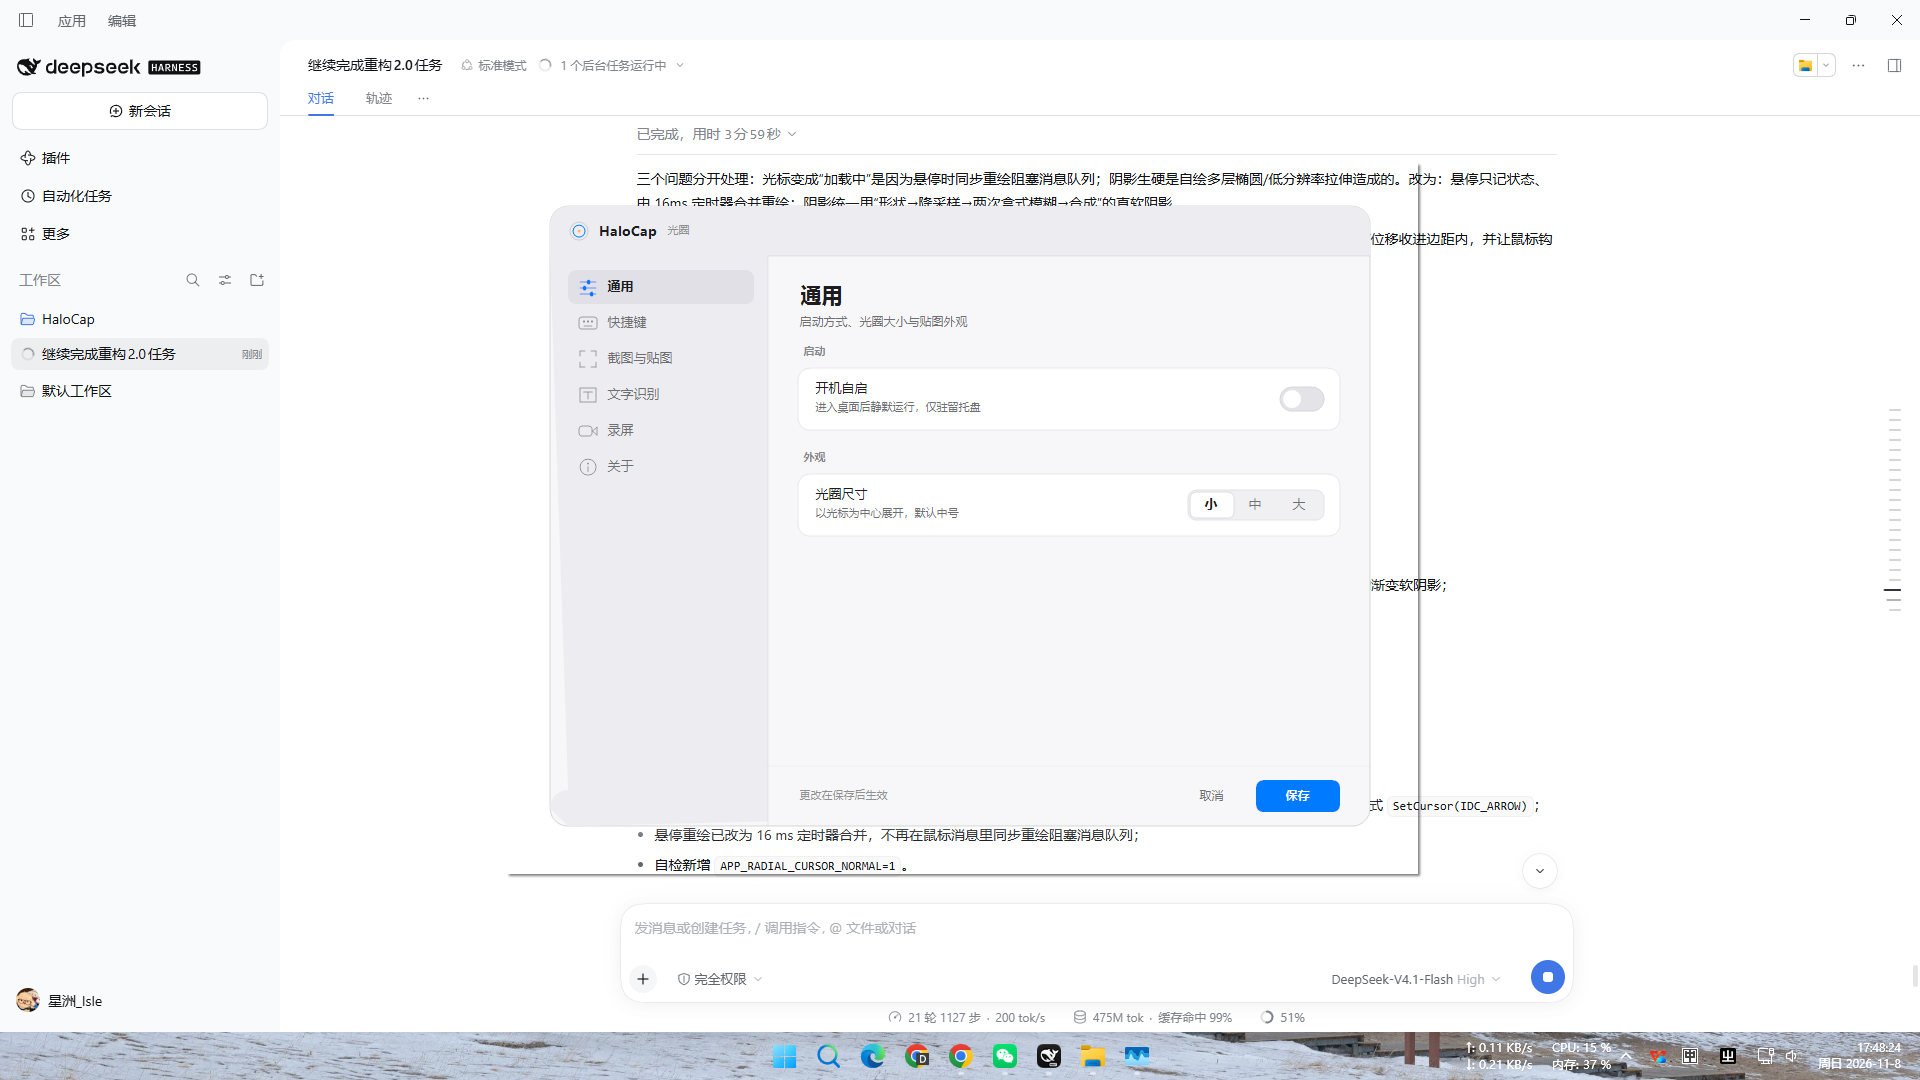
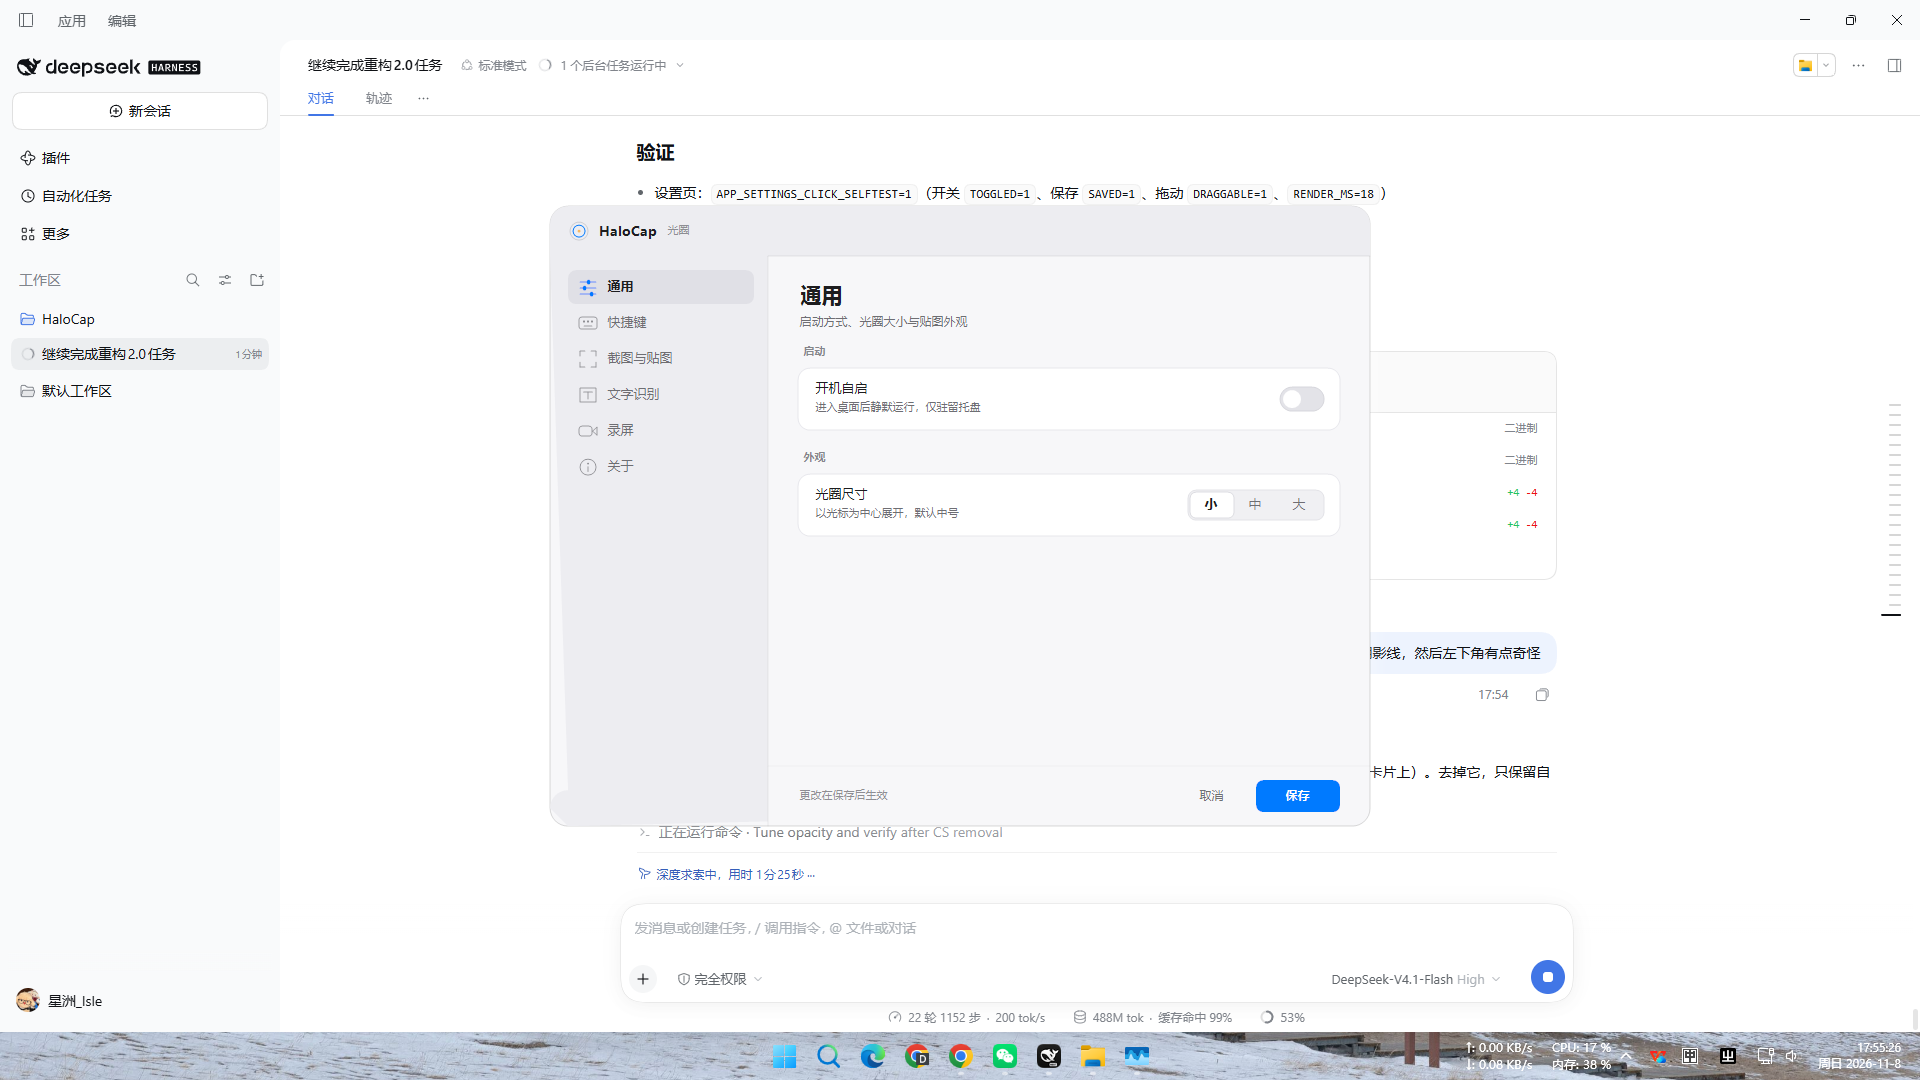
fix: drop CS_DROPSHADOW from the settings window
The right/bottom 'shadow lines' were the classic CS_DROPSHADOW rectangle the
window class still requested: it was drawn around the 916x716 window bounds,
48 px outside the visible card, so it read as an unrelated dark line. Remove it
and keep only the self-drawn soft shadow (opacity 0.45, 20 px blur, 6 px offset)
inside the card's 48 px transparent margin.

Settings click/drag/save selftest still green (RENDER_MS=18); package relaunched.

diff --git a/native/app/settings_window.cpp b/native/app/settings_window.cpp
@@ -366,7 +366,6 @@ bool SettingsWindow::EnsureClass() {
     static const bool registered = [] {
         WNDCLASSEXW description{};
         description.cbSize = sizeof(description);
-        description.style = CS_DROPSHADOW;
         description.lpfnWndProc = &SettingsWindow::WndProc;
         description.hInstance = GetModuleHandleW(nullptr);
         description.hCursor = LoadCursorW(nullptr, IDC_ARROW);
@@ -770,7 +769,7 @@ void SettingsWindow::BuildBackgroundCache() {
     Fonts* fonts = GetFonts();
 
     // 真软阴影：形状 → 降采样 → 两次盒式模糊 → 拉伸合成（缓存里只做一次）。
-    DrawSoftShadow(g, frame, kRadius, 0.35f, 20.0f, 6.0f, false);    FillRoundRect(g, frame, kRadius, Color(255, 255, 255, 255));
+    DrawSoftShadow(g, frame, kRadius, 0.45f, 20.0f, 6.0f, false);    FillRoundRect(g, frame, kRadius, Color(255, 255, 255, 255));
     FillRoundRect(g, frame, kRadius, content);
     StrokeRoundRect(g, frame, kRadius, Color(38, 0, 0, 0));
 
